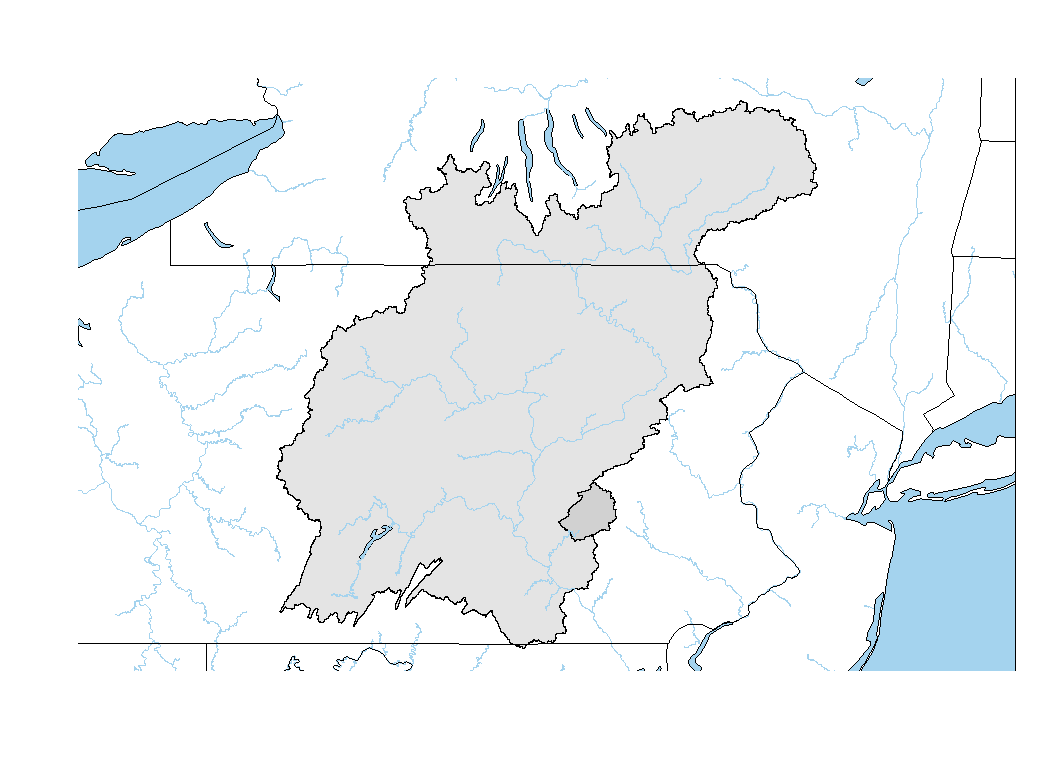
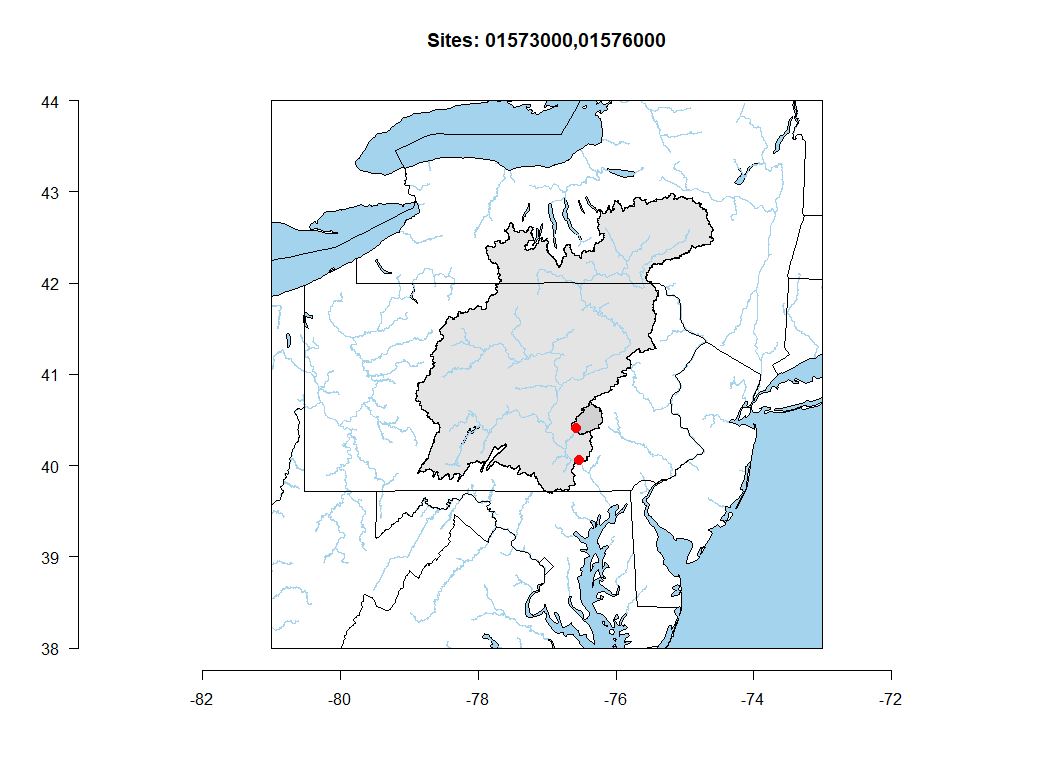
Fixes #21 and Fixes #21

diff --git a/README.md b/README.md
@@ -12,48 +12,48 @@ Package Status
 
 ### Reporting bugs
 
-Please consider reporting bugs and asking questions on the Issues page: <https://github.com/USGS-R/hydroMap/issues>
+Please consider reporting bugs and asking questions on the Issues page:
+<https://github.com/USGS-R/hydroMap/issues>
 
 Follow `@USGS_R` on Twitter for updates on USGS R packages:
 
-[![Twitter Follow](https://img.shields.io/twitter/follow/USGS_R.svg?style=social&label=Follow%20USGS_R)](https://twitter.com/USGS_R)
+[![Twitter
+Follow](https://img.shields.io/twitter/follow/USGS_R.svg?style=social&label=Follow%20USGS_R)](https://twitter.com/USGS_R)
 
 ### Code of Conduct
 
-We want to encourage a warm, welcoming, and safe environment for contributing to this project. See the [code of conduct](https://github.com/USGS-R/hydroMap/blob/master/CONDUCT.md) for more information.
+We want to encourage a warm, welcoming, and safe environment for
+contributing to this project. See the [code of
+conduct](https://github.com/USGS-R/hydroMap/blob/master/CONDUCT.md) for
+more information.
 
 ### Package Support
 
-The Water Mission Area of the USGS supported the exploration of the development of the `hydroMaps` R-package. This package is not currently active.
+The Water Mission Area of the USGS supported the exploration of the
+development of the `hydroMaps` R-package. This package is not currently
+active.
 
 [![USGS](http://usgs-r.github.io/images/usgs.png)](https://www.usgs.gov/)
 
 ### Sunset date
 
-There is no current funding for `hydroMaps`. Users should be aware that they use this package at their own risk.
+There is no current funding for `hydroMaps`. Users should be aware that
+they use this package at their own risk.
 
 Installation
 ============
 
-Windows
--------
+To install the `hydroMap` package, first install the “remotes” package.
+Then run the following R code:
 
 ``` r
-install.packages("hydroMap", 
-    repos = c("http://owi.usgs.gov/R", "http://cran.us.r-project.org"))
+remotes::install_github("USGS-R/hydroMap")
 ```
 
-Mac and Unix
-------------
+`hydroMaps` depends on the R packages `sp`,`rgeos`, and `rgdal` all of
+which require an external library gdal to be installed. See :
 
-`hydroMaps` depends on the R packages `sp`,`rgeos`, and `rgdal` all of which require an external library gdal to be installed. See :
-
-<https://www.mapbox.com/tilemill/docs/guides/gdal/>
-
-``` r
-install.packages("hydroMap", 
-    repos = c("http://owi.usgs.gov/R", "http://cran.us.r-project.org"))
-```
+<a href="https://www.mapbox.com/tilemill/docs/guides/gdal/" class="uri">https://www.mapbox.com/tilemill/docs/guides/gdal/</a>
 
 Sample Workflow
 ===============
@@ -69,19 +69,19 @@ plotWSB(sites, mapRange = c(-81,-73,38,44),streamorder = 5)
 ```
 
     ## OGR data source with driver: ESRI Shapefile 
-    ## Source: "C:\Users\ldecicco\AppData\Local\Temp\1\Rtmps3wTPA", layer: "epa_basins"
+    ## Source: "C:\Users\ldecicco\AppData\Local\Temp\1\RtmpEb7G3n", layer: "epa_basins"
     ## with 2 features
     ## It has 4 fields
 
     ## OGR data source with driver: ESRI Shapefile 
-    ## Source: "C:\Users\ldecicco\AppData\Local\Temp\1\Rtmps3wTPA", layer: "nhdflowline_network"
+    ## Source: "C:\Users\ldecicco\AppData\Local\Temp\1\RtmpEb7G3n", layer: "nhdflowline_network"
     ## with 9638 features
     ## It has 90 fields
 
     ## Warning in readOGR(filePath, layer = "nhdflowline_network"): Z-dimension
     ## discarded
 
-![](README_files/figure-markdown_github/unnamed-chunk-3-1.png)
+![](README_files/figure-markdown_github/unnamed-chunk-2-1.png)
 
 ``` r
 # dev.off()
@@ -95,12 +95,12 @@ plotWSB(sites, mapRange = c(-81,-73,38,44),streamorder = 5)
 ```
 
     ## OGR data source with driver: ESRI Shapefile 
-    ## Source: "C:\Users\ldecicco\AppData\Local\Temp\1\Rtmps3wTPA", layer: "epa_basins"
+    ## Source: "C:\Users\ldecicco\AppData\Local\Temp\1\RtmpEb7G3n", layer: "epa_basins"
     ## with 2 features
     ## It has 4 fields
 
     ## OGR data source with driver: ESRI Shapefile 
-    ## Source: "C:\Users\ldecicco\AppData\Local\Temp\1\Rtmps3wTPA", layer: "nhdflowline_network"
+    ## Source: "C:\Users\ldecicco\AppData\Local\Temp\1\RtmpEb7G3n", layer: "nhdflowline_network"
     ## with 9638 features
     ## It has 90 fields
 
@@ -111,8 +111,8 @@ plotWSB(sites, mapRange = c(-81,-73,38,44),streamorder = 5)
 points(siteInfo$dec_long_va, siteInfo$dec_lat_va, pch=20, col="red", cex=2,streamorder = 5)
 ```
 
-    ## Warning in plot.xy(xy.coords(x, y), type = type, ...): "streamorder" is not
-    ## a graphical parameter
+    ## Warning in plot.xy(xy.coords(x, y), type = type, ...): "streamorder" is not a
+    ## graphical parameter
 
 ``` r
 axis(2,las=1)
@@ -120,7 +120,7 @@ axis(1,las=1)
 title(paste("Sites:",paste0(siteInfo$site_no,collapse = ",")))
 ```
 
-![](README_files/figure-markdown_github/unnamed-chunk-4-1.png)
+![](README_files/figure-markdown_github/unnamed-chunk-3-1.png)
 
 Create Interactive Graphs using Leaflet:
 ----------------------------------------
@@ -149,43 +149,58 @@ Screen shot: ![](README_files/figure-markdown_github//leafletScreen.png)
 Contribute
 ----------
 
-In order to contribute to this code, we recommend the following workflow:
+In order to contribute to this code, we recommend the following
+workflow:
 
-1.  "fork" this repository to your own personal github account
+1.  “fork” this repository to your own personal github account
 
 2.  clone the github repository to your computer:
 
-    $git clone <https://github.com/%7Busername%7D/hydroMaps.git>
+    $git clone
+    <a href="https://github.com/%7Busername%7D/hydroMaps.git" class="uri">https://github.com/{username}/hydroMaps.git</a>
 
 3.  modify code or add new functionality, save the code
 
-4.  add the repository master to a remote master called "upstream"
+4.  add the repository master to a remote master called “upstream”
 
     $cd hydroMaps
 
-    $git remote add upstream <https://github.com/USGS-R/hydroMaps.git>
+    $git remote add upstream
+    <a href="https://github.com/USGS-R/hydroMaps.git" class="uri">https://github.com/USGS-R/hydroMaps.git</a>
 
-5.  before pushing your changes to your repository, pull in the current version of the USGS-R master:
+5.  before pushing your changes to your repository, pull in the current
+    version of the USGS-R master:
 
     $git fetch upstream
 
-6.  merge these differences with your own "master" version:
+6.  merge these differences with your own “master” version:
 
     $git merge upstream/master
 
-7.  push your changes to your github repository, in addition to changes made by pulling in the GLEON master:
+7.  push your changes to your github repository, in addition to changes
+    made by pulling in the GLEON master:
 
     $git push
 
-8.  submit a pull request to USGS-R master using your account at github.com
+8.  submit a pull request to USGS-R master using your account at
+    github.com
 
 Disclaimer
 ----------
 
-This software is in the public domain because it contains materials that originally came from the U.S. Geological Survey, an agency of the United States Department of Interior. For more information, see the [official USGS copyright policy](http://www.usgs.gov/visual-id/credit_usgs.html#copyright/ "official USGS copyright policy")
+This software is in the public domain because it contains materials that
+originally came from the U.S. Geological Survey, an agency of the United
+States Department of Interior. For more information, see the [official
+USGS copyright
+policy](http://www.usgs.gov/visual-id/credit_usgs.html#copyright/ "official USGS copyright policy")
 
-Although this software program has been used by the U.S. Geological Survey (USGS), no warranty, expressed or implied, is made by the USGS or the U.S. Government as to the accuracy and functioning of the program and related program material nor shall the fact of distribution constitute any such warranty, and no responsibility is assumed by the USGS in connection therewith.
+Although this software program has been used by the U.S. Geological
+Survey (USGS), no warranty, expressed or implied, is made by the USGS or
+the U.S. Government as to the accuracy and functioning of the program
+and related program material nor shall the fact of distribution
+constitute any such warranty, and no responsibility is assumed by the
+USGS in connection therewith.
 
-This software is provided "AS IS."
+This software is provided “AS IS.”
 
 [![CC0](http://i.creativecommons.org/p/zero/1.0/88x31.png)](http://creativecommons.org/publicdomain/zero/1.0/)
